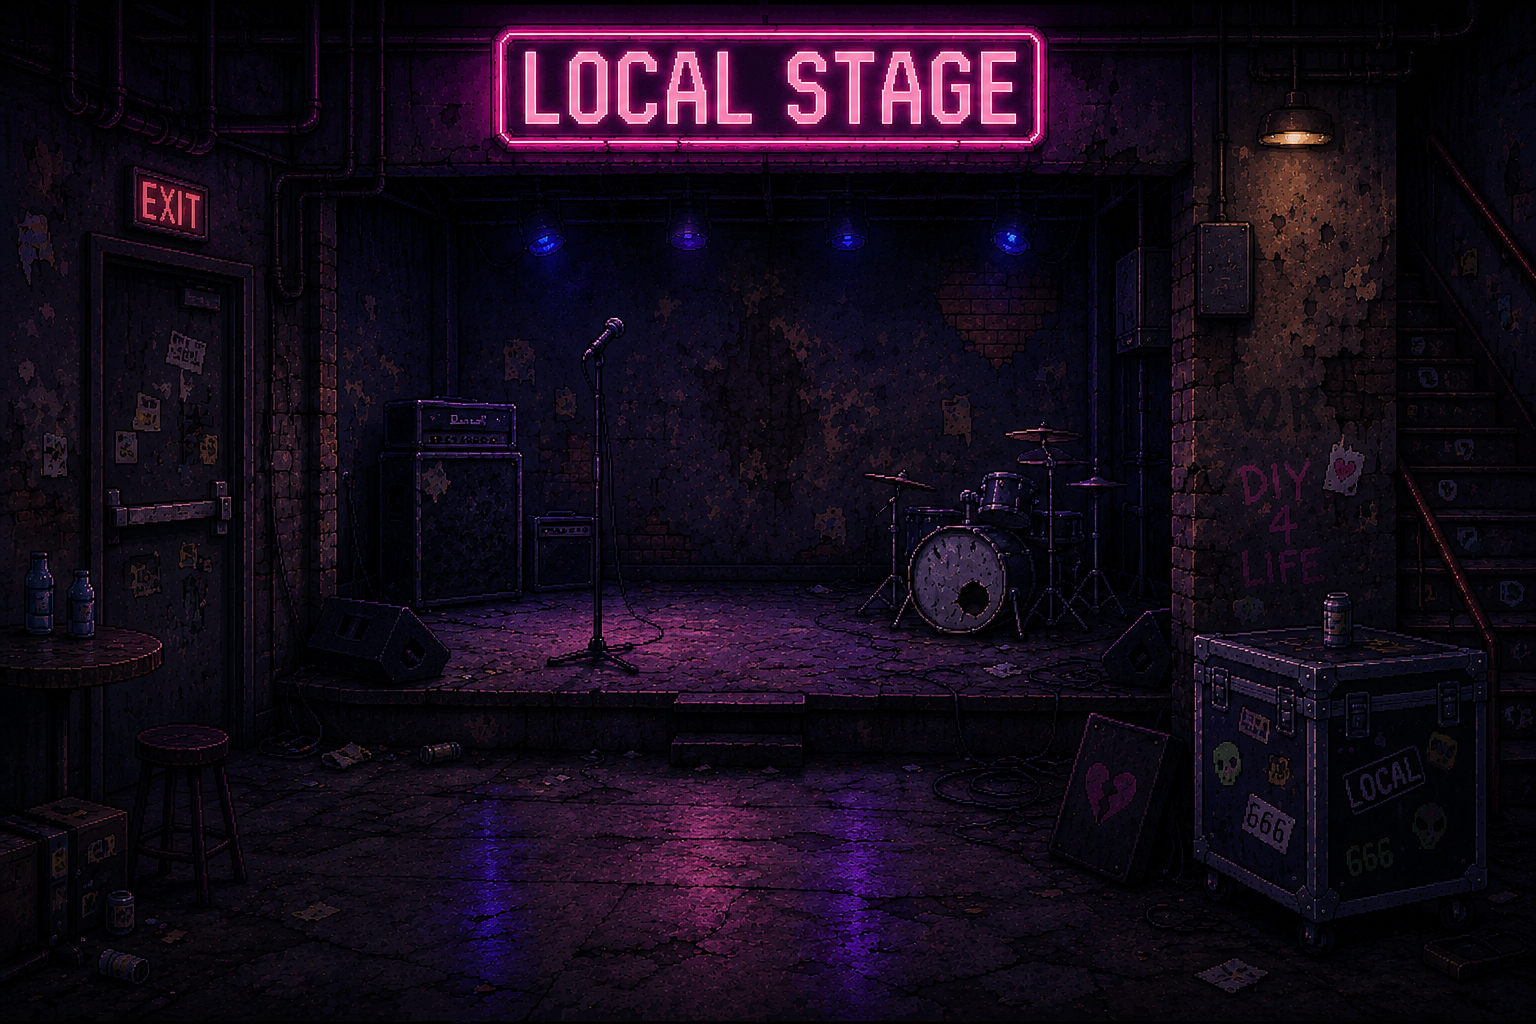
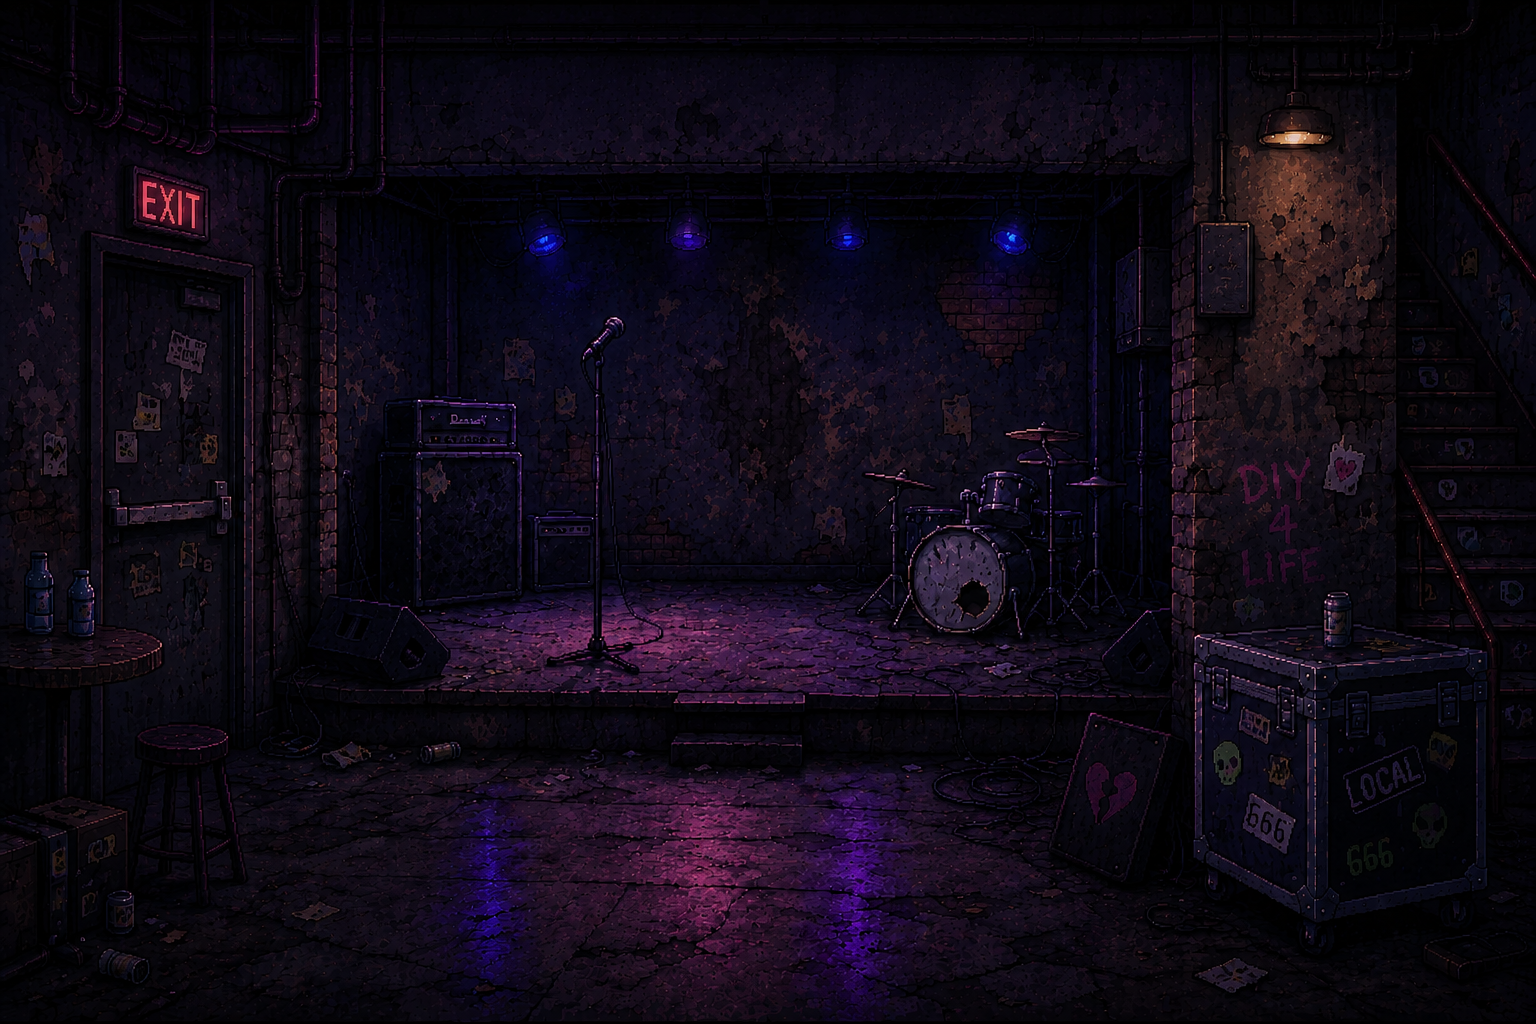
Started working on the final UI for the main game

diff --git a/src/main/java/seng201/team67/gui/instantiable/questions/QuestionController.java b/src/main/java/seng201/team67/gui/instantiable/questions/QuestionController.java
@@ -3,6 +3,8 @@ package seng201.team67.gui.instantiable.questions;
 import javafx.fxml.FXML;
 import javafx.scene.control.Button;
 import javafx.scene.control.Label;
+import javafx.scene.layout.GridPane;
+import javafx.scene.layout.RowConstraints;
 import seng201.team67.models.questionmodels.Answer;
 import seng201.team67.models.questionmodels.Question;
 
@@ -54,12 +56,18 @@ public class QuestionController {
                 Answer choice = answers.get(i);
                 btn.setText(choice.getLabel());
                 btn.setVisible(true);
+                btn.setManaged(true);
                 btn.setOnAction(e -> onAnswer.accept(choice));
             } else {
                 btn.setVisible(false);
-                btn.setManaged(false);  // collapses layout space too
+                btn.setManaged(false);
             }
         }
+
+        GridPane grid = (GridPane) answerOne.getParent();
+        List<RowConstraints> rows = grid.getRowConstraints();
+        boolean row1Used = answers.size() > 2;
+        rows.get(1).setPercentHeight(row1Used ? 50.0 : 0.0);
+        rows.get(1).setMaxHeight(row1Used ? Double.MAX_VALUE : 0.0);
     }
 }
-